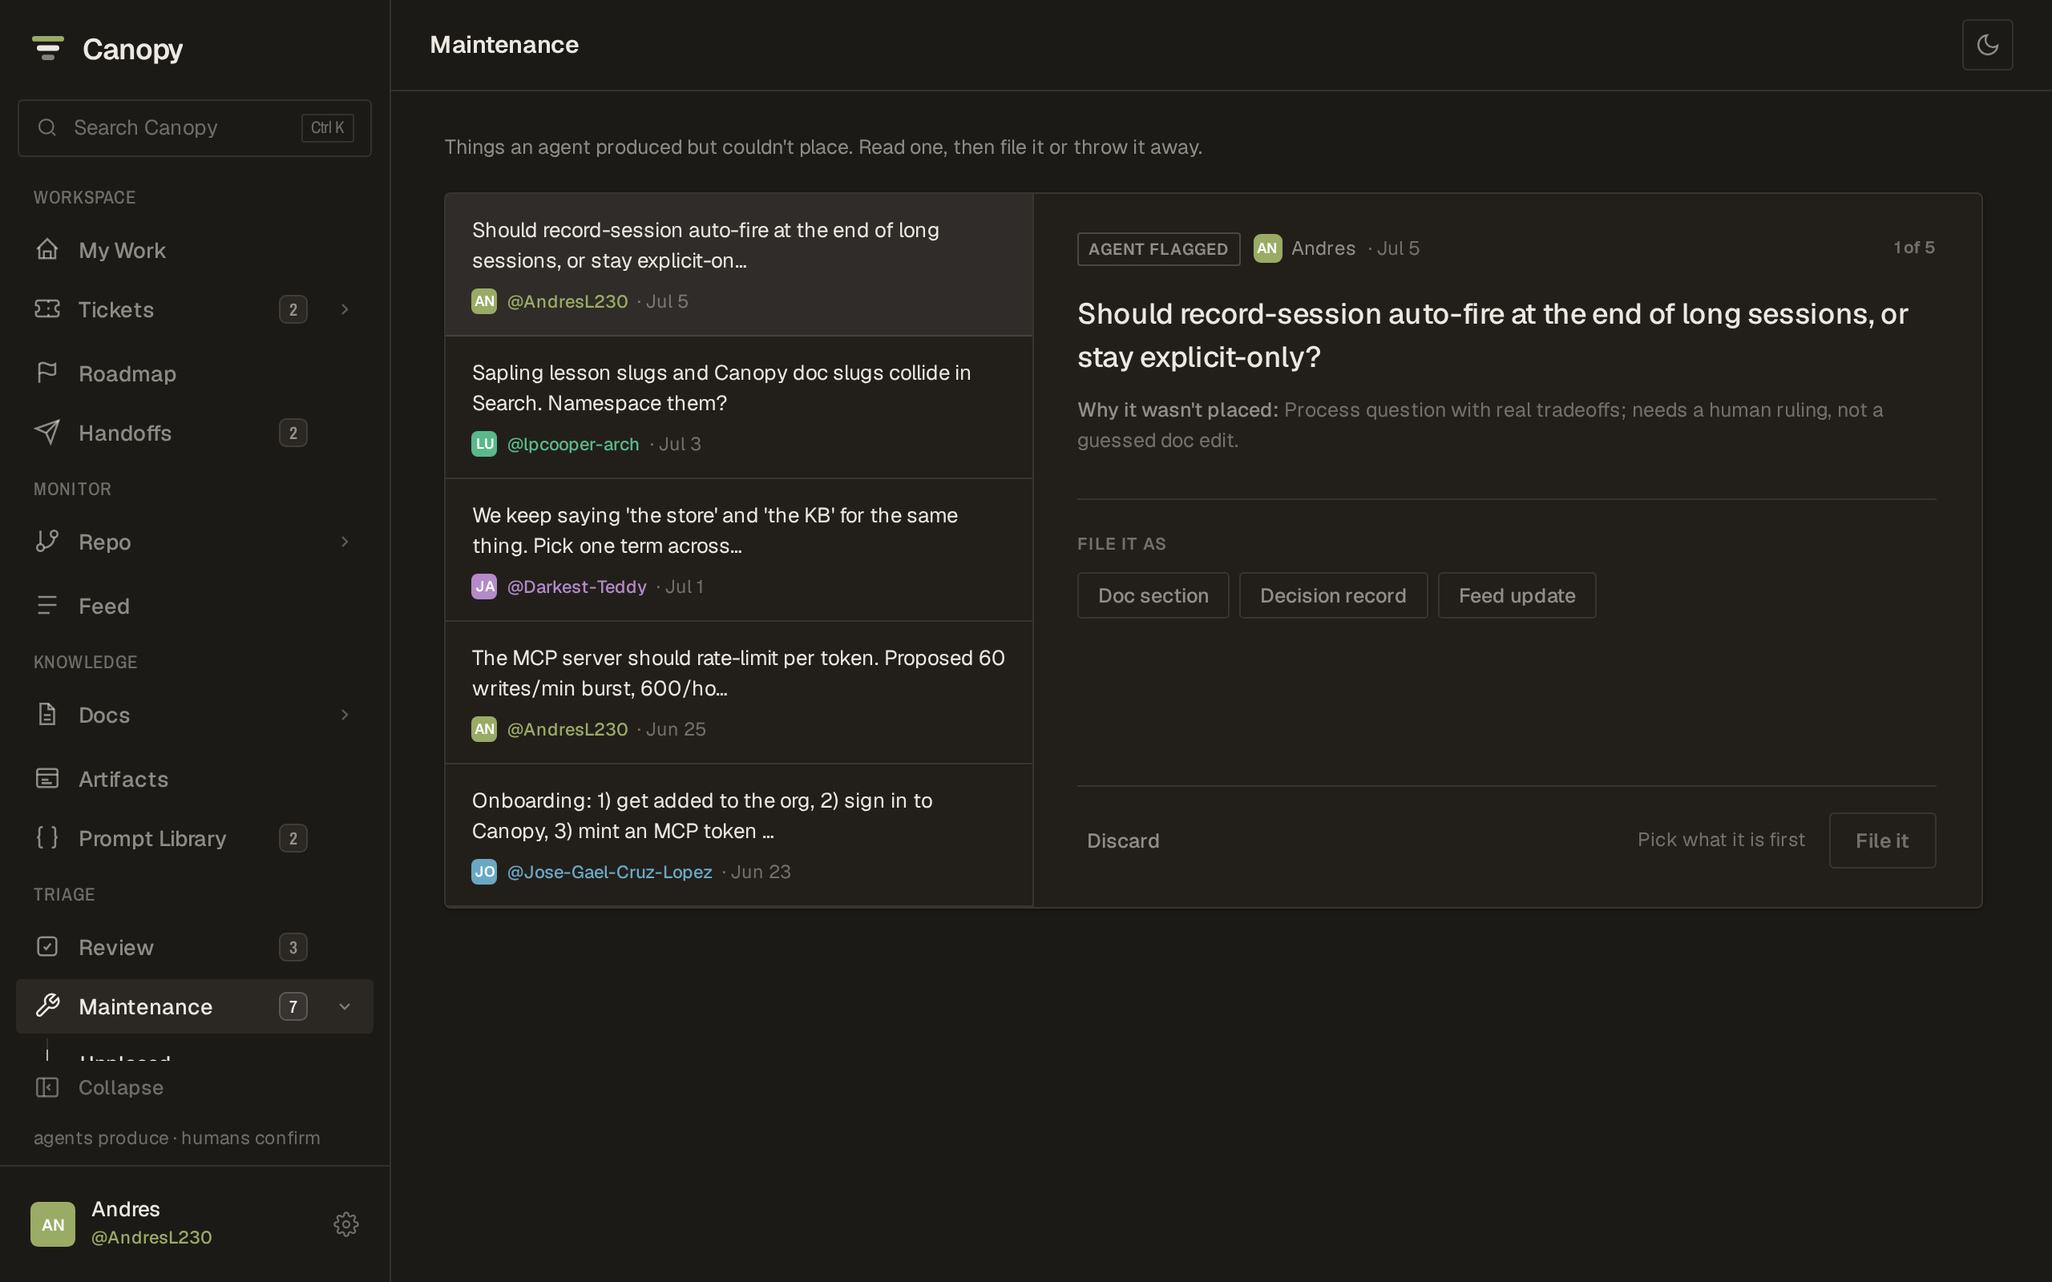
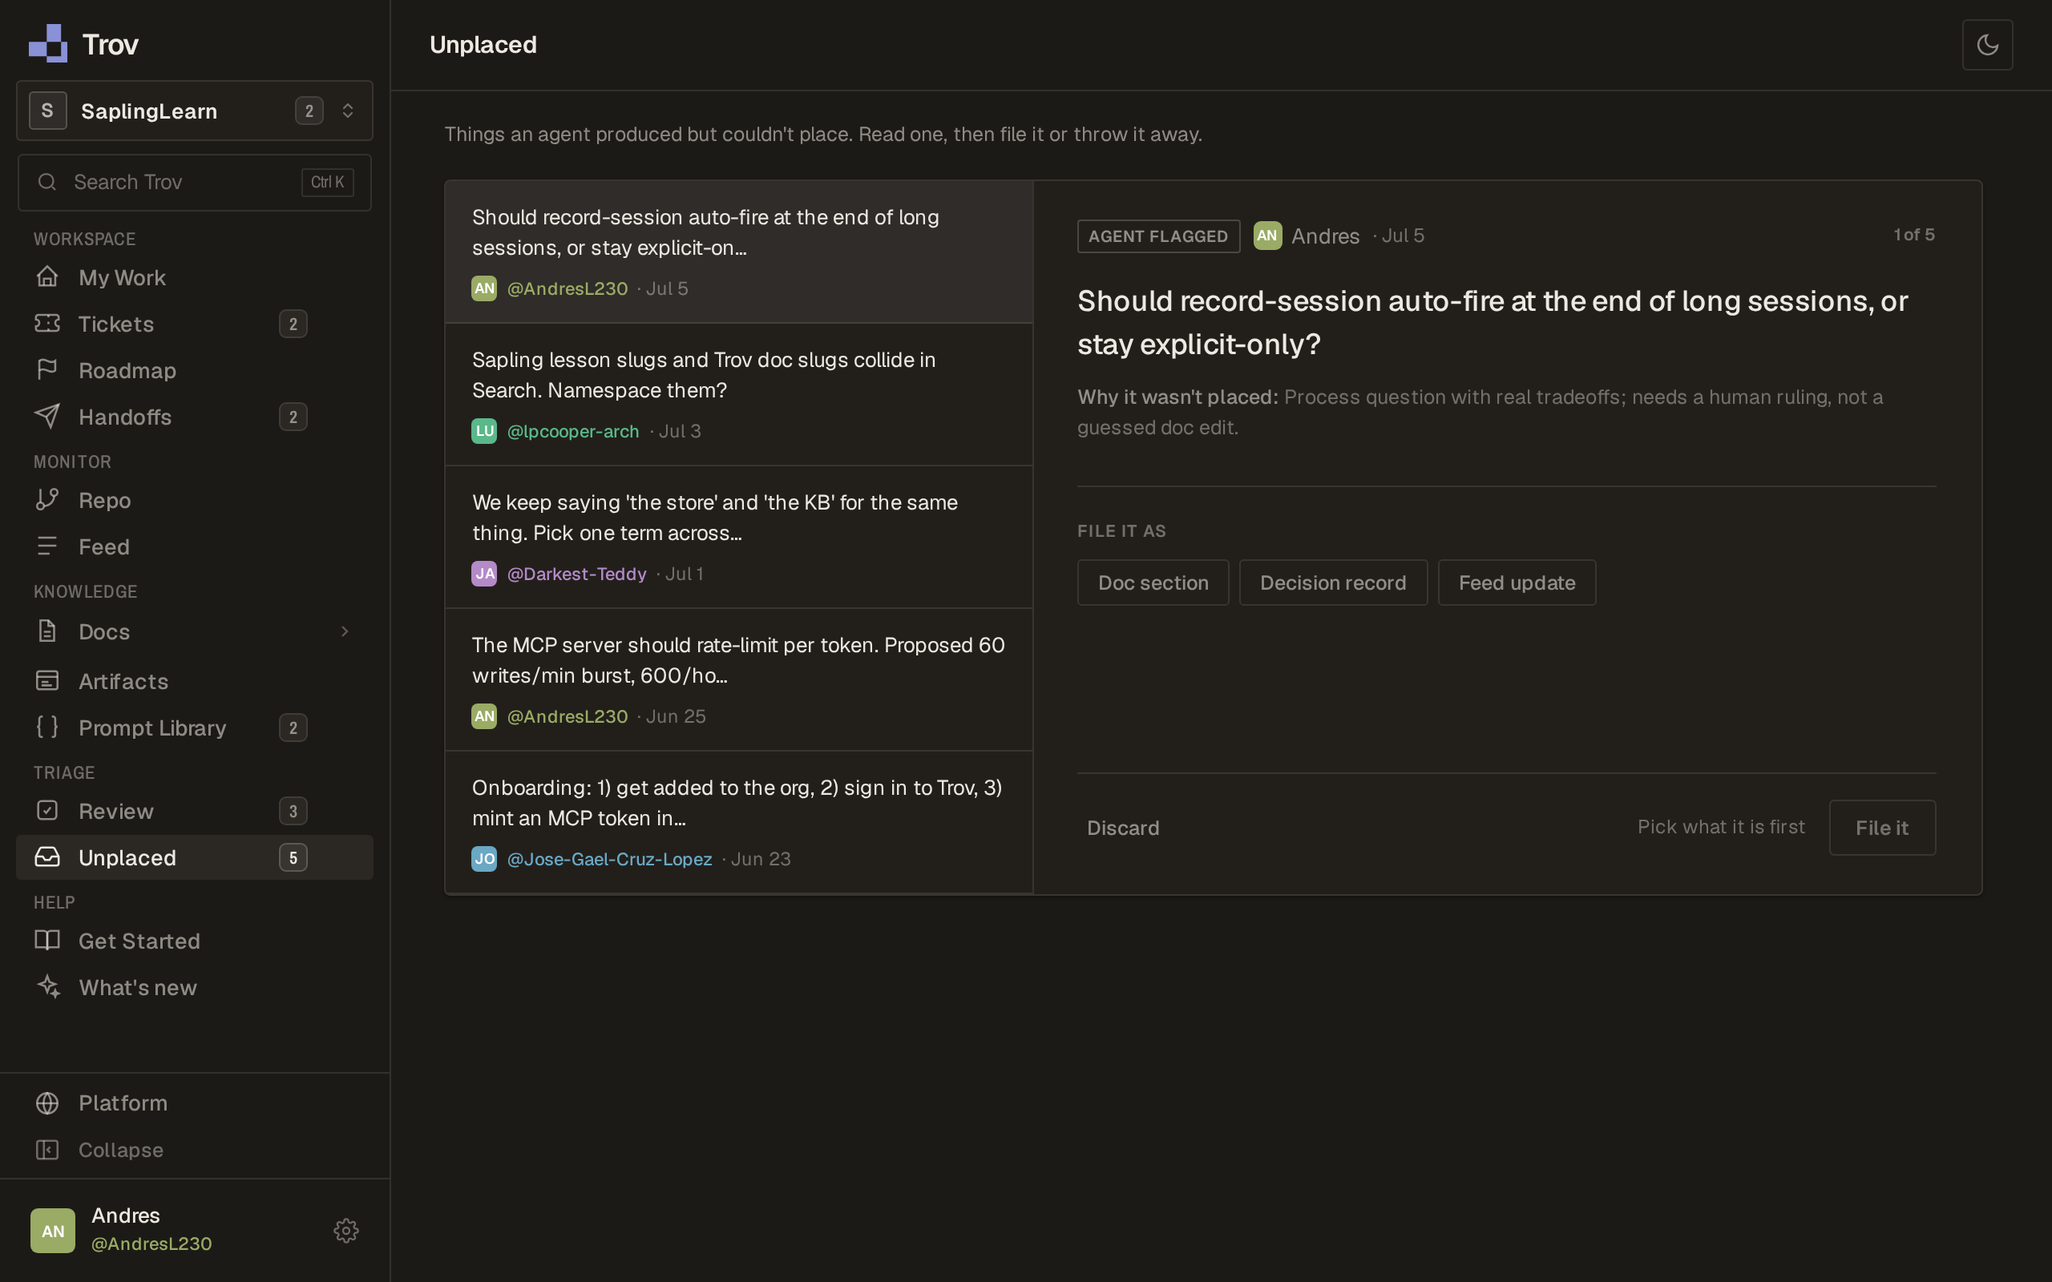
Second pass on the organization pages; the guide's Unplaced figure; docs
Field labels on Platform and the create dialog use the same eyebrow as Org settings;
the unmatched-login cards are tighter. An old spelling of the place already on screen
(#maintenance/identity while on Org settings › Members) is rewritten in the address
bar. The Get Started figure for the queue is recaptured as Unplaced, the release notes
(0.18) and organizations.md describe where an organization is administered and how its
tabs are laid out.

Claude-Session: https://claude.ai/code/session_01SHs5YNagMrboyApz5UNR5w

diff --git a/web/src/releases.ts b/web/src/releases.ts
@@ -81,7 +81,7 @@ export const RELEASES: Release[] = [
       "Org settings is the one place an organization is run from: Members is the people directory, Notifications holds the email digest settings, and Maintenance is gone (its queue is now Triage › Unplaced). In Members, invite people by GitHub login or email, make them an admin or a member, give them a title, or remove them. An email invitation is sent by Trov, names your organization, and the page shows whether it went out; you can send it again. Owners manage other owners.",
       "Org settings also holds what used to be set by whoever deploys Trov: the repositories an organization tracks, the environments its Repo dashboard reports on, and the credentials Trov uses for it. A credential is write-only: once saved, only its last four characters are ever shown.",
       "Connecting Claude Code is per organization: you pick the organization when you allow the connection, and Settings › MCP access shows which one each connected app reaches.",
-      "A new organization's admin gets a short checklist: connect a repository, add an environment, set the GitHub token, invite the team.",
+      "A new organization's admin gets a short checklist: connect a repository, add an environment, set the GitHub token, invite the team. Each Org settings tab starts with one line saying what is set and what needs attention, and a row opens for its details.",
     ],
     headsUp: [
       "The address of every page now starts with your organization, like /o/your-org/. Old links and links in emails still open, in your organization if you have one, or the last one you used.",
@@ -132,6 +132,7 @@ export const RELEASES: Release[] = [
         "Org settings › Members sends and re-sends the invitation email through the org routes, for an admin in any number of orgs, takes the invitee's name, and shows each pending invite's email outcome",
         "A ticket's and a handoff's `id` on every surface is its per-org number (spec §12 Q2): route params and bodies (`/tickets/:id`, `child_id`, `after_id`, `/handoffs/:id`), every MCP ticket / handoff tool, quick search (`#12`), My Work, a sprint's ticket list, an artifact's link to a ticket. The global row id no longer leaves the Worker. `MyWorkTicket.number` is gone (`id` is the number)",
         "`POST …/admin/poll` and `…/admin/poll-usage` results: a source the org has not set up reads \"Not connected — set it up in Org settings › Integrations\"; Sync GitHub's 503 for an org with no repository or token says so and offers Org settings",
+        "Org settings, Platform and the org picker share one hierarchy (`web/src/org-ui.ts`): a tab opens with a lead line (`tabLead` — what is there, what needs attention, the tab's one accent action), sections are the uppercase eyebrow (`orgHead`, `.cnpy-sechead`), a row shows a name, a status chip and one quiet action and opens to the rest (`openRow`, `orgRowToggle`, `OrgUi.openRows`), and destructive actions are text (`dangerLink`). Integrations' status chip is one word (the last four move to the row's metadata), its encryption key and history are rows at the foot; the setup checklist is one line; an environment's Delete is in its edit form; Platform's Add organization is the Organizations tab's lead action, not a header button; a Platform organization's page lists members and pending invites together, with Add an owner behind a button (`platOwnerToggle`)",
         "Org settings › Notifications: the sender is a NAME field over the fixed address, checked with the Worker's rule; a 429 `rate_limited` is one sentence with the local time wherever a limited route is called",
         "A sprint's `lead` must be a member of the org (`create_sprint`, the plan write): a non-member is a 400 and nothing is written",
         "A bare issue ref (`#214`) on a ticket link or sprint resource resolves against the org's primary repository only; with none connected it is a 400 that names Org settings › Repositories",

diff --git a/web/src/identity.ts b/web/src/identity.ts
@@ -80,10 +80,10 @@ export function discardedLogins(items: DiscardedLogin[], open: boolean): string 
 /** One unmatched login: the activity sample that identifies the person, beside the picker. */
 export function identityCard(g: IdentityGroup, people: Person[], pick: string | null, confirming: boolean): string {
   const sample = g.sample.map((ev) => `<div style="display:flex;align-items:baseline;gap:9px;min-width:0"><span style="font-family:var(--label);font-size:10px;font-weight:600;letter-spacing:.04em;color:var(--fg-40);border:1px solid var(--border);border-radius:5px;padding:1px 6px;flex:none">${esc(ev.kind)}</span><span style="font-size:12.5px;color:var(--fg-70);min-width:0;overflow:hidden;text-overflow:ellipsis;white-space:nowrap">${esc(ev.text)}</span><span style="font-size:11px;color:var(--fg-40);flex:none;white-space:nowrap">${esc(ev.when)}</span></div>`).join("");
-  return `<div style="display:flex;flex-wrap:wrap;gap:20px 36px;padding:20px 22px;border-bottom:1px solid var(--border);margin-bottom:-1px">
+  return `<div style="display:flex;flex-wrap:wrap;gap:14px 32px;padding:14px 16px 16px;border-bottom:1px solid var(--border);margin-bottom:-1px">
     <div style="flex:1 1 280px;min-width:0">
-      <div style="display:flex;align-items:baseline;gap:10px;flex-wrap:wrap"><div style="font-family:var(--label);font-size:15px;font-weight:600;color:var(--fg);white-space:nowrap">${esc(g.login)}</div><div style="font-size:11.5px;color:var(--fg-40);white-space:nowrap">${esc(g.meta)}</div></div>
-      <div style="display:flex;flex-direction:column;gap:7px;margin-top:12px">${sample}</div>
+      <div style="display:flex;align-items:baseline;gap:10px;flex-wrap:wrap"><div style="font-size:13.5px;font-weight:600;color:var(--fg);white-space:nowrap">${esc(g.login)}</div><div style="font-size:11.5px;color:var(--fg-40);white-space:nowrap">${esc(g.meta)}</div></div>
+      <div style="display:flex;flex-direction:column;gap:6px;margin-top:8px">${sample}</div>
     </div>
     <div style="flex:1 1 380px;min-width:0">${personPicker(g.id, people, pick, confirming)}</div>
   </div>`;

diff --git a/web/src/triage-map.ts b/web/src/triage-map.ts
@@ -119,7 +119,7 @@ export function decodeReviewId(id: string): ReviewRef | null {
   return null;
 }
 
-// ── Maintenance · assign vocabulary ──────────────────────────────────────────
+// ── Unplaced · assign vocabulary ──────────────────────────────────────────
 /** The real assign options: gate types × @shared/vocabulary targets.
  *  'needs-triage' is the queue itself, never an assignable section. */
 export const ASSIGN_OPTIONS: AssignOptions = {
@@ -133,7 +133,7 @@ export const ASSIGN_OPTIONS: AssignOptions = {
   tags: [...TAGS],
 };
 
-// ── Maintenance · Unplaced ───────────────────────────────────────────────────
+// ── Unplaced · the queue ─────────────────────────────────────────────────────
 function clip(text: string, max: number): string {
   return text.length > max ? `${text.slice(0, max)}…` : text;
 }
@@ -170,7 +170,7 @@ export function unplacedFromRow(r: NeedsTriageRow): UnplacedItem {
   };
 }
 
-// ── Maintenance · Identity ───────────────────────────────────────────────────
+// ── Org settings › Members · Unmatched logins ───────────────────────────────────────────────────
 /** Real sample kinds are only pr_merged / pr_closed / issue — commits are never
  *  captured events. The read returns samples, not a total, so the accent line
  *  says "recent activity" instead of fabricating a count. */

diff --git a/web/src/org-settings.ts b/web/src/org-settings.ts
@@ -351,7 +351,7 @@ export function envForm(d: EnvDraft, current: OrgEnvironmentDTO | null, metricsS
     <div style="${O_LABEL};margin-top:20px">Where it runs</div>
     <div class="cnpy-org-grid" style="margin-top:10px">${ENV_URLS.map(f).join("")}</div>
     ${warn}
-    <button type="button" data-act="orgEnvAdvanced" data-field="orgEnvAdvanced" aria-expanded="${open}" aria-controls="org-env-adv" class="cnpy-mutelink" style="display:inline-flex;align-items:center;gap:6px;margin-top:18px;padding:4px 0;font-size:12.5px;font-weight:500;color:var(--fg-55)"><svg width="11" height="11" viewBox="0 0 24 24" fill="none" stroke="currentColor" stroke-width="2.4" aria-hidden="true" style="transform:${open ? "rotate(90deg)" : "none"};transition:transform .15s ease"><path d="M9 6l6 6-6 6"></path></svg>Advanced: GitHub, Cloudflare and Railway names</button>
+    <button type="button" data-act="orgEnvAdvanced" data-field="orgEnvAdvanced" aria-expanded="${open}" aria-controls="org-env-adv" class="cnpy-mutelink" style="display:inline-flex;align-items:center;gap:6px;margin-top:18px;padding:4px 0;font-size:12.5px;font-weight:500;color:var(--fg-55);text-align:left"><svg width="11" height="11" viewBox="0 0 24 24" fill="none" stroke="currentColor" stroke-width="2.4" aria-hidden="true" style="transform:${open ? "rotate(90deg)" : "none"};transition:transform .15s ease"><path d="M9 6l6 6-6 6"></path></svg>Advanced: GitHub, Cloudflare and Railway names</button>
     <div id="org-env-adv"${open ? "" : " hidden"}>
       <div style="${O_HELP};margin:4px 0 12px">Only needed for the dashboard cards that read these services. Leave any of them empty to skip that card.</div>
       <div class="cnpy-org-grid">${ENV_ADVANCED.map(f).join("")}</div>

diff --git a/web/src/integrations.ts b/web/src/integrations.ts
@@ -324,7 +324,7 @@ export function integrationsTab(org: MyOrg, ui: OrgUi): string {
       ? `<li class="cnpy-org-row" style="align-items:center"><div style="flex:1 1 260px;min-width:0;font-size:12.5px;color:var(--fg-55)">Each repository gets its own webhook secret. None is connected yet.</div><div class="cnpy-org-actions">${goLink("Connect a repository", "orgTab", "repos")}</div></li>` : "";
     return `<section aria-labelledby="org-int-${attr(g.key)}" data-org-group="${attr(g.key)}">
       ${orgHead(g.title, g.key === "orphans" ? "can only be deleted" : `${done} of ${g.rows.length} set`, null, `org-int-${g.key}`)}
-      <ul${surface(LIST)} title="${attr(g.hint)}">${g.rows.map((i) => integrationRow(i, { secretsAvailable: d.secrets_available, test: ui.tests[integrationKey(i)], open: ui.openRows.includes(integrationKey(i)) })).join("")}${extra}</ul>
+      <ul${surface(LIST)}>${g.rows.map((i) => integrationRow(i, { secretsAvailable: d.secrets_available, test: ui.tests[integrationKey(i)], open: ui.openRows.includes(integrationKey(i)) })).join("")}${extra}</ul>
     </section>`;
   }).join("");
   const envHint = noEnv ? `<div style="margin-top:30px">${orgEmpty("No environment tokens yet", "Each environment gets a Railway project token and an app metrics token. Add an environment first.", quietBtn("Open Environments", "orgTab", { arg: "environments" }))}</div>` : "";

diff --git a/web/src/platform.ts b/web/src/platform.ts
@@ -187,7 +187,8 @@ export const lastSuperadminSentence = (handle: string): string =>
 const LABEL = "font-family:var(--label);font-size:10.5px;font-weight:600;letter-spacing:.08em;text-transform:uppercase;color:var(--fg-40);white-space:nowrap";
 const QUIET = "font-size:11.5px;color:var(--fg-40)";
 const FIELD = "display:block;width:100%;box-sizing:border-box;height:38px;padding:0 12px;border:1px solid var(--border-strong);border-radius:9px;background:transparent;color:var(--fg);font-size:13.5px;font-family:var(--sans);outline:none";
-const FIELD_LABEL = "display:block;font-size:12.5px;font-weight:500;color:var(--fg-70);margin-bottom:6px";
+// A field's label: the same uppercase eyebrow as Org settings' fields (org-ui.ts `O_LABEL`).
+const FIELD_LABEL = "display:block;font-family:var(--label);font-size:10.5px;font-weight:600;letter-spacing:.08em;text-transform:uppercase;color:var(--fg-40);margin-bottom:7px";
 const BTN = "height:38px;padding:0 16px;border-radius:8px;font-size:12.5px;font-weight:600;white-space:nowrap";
 const OUTLINE = `${BTN};border:1px solid var(--border-strong);font-weight:500;color:var(--fg-70)`;
 const ROW = "display:flex;align-items:center;gap:12px;padding:11px 20px;border-bottom:1px solid var(--border);margin-bottom:-1px";

diff --git a/web/src/org-picker.ts b/web/src/org-picker.ts
@@ -194,7 +194,7 @@ export function orgMenu(p: OrgMenuProps): string {
 
 // ── the create dialog ────────────────────────────────────────────────────────
 const FIELD = "display:block;width:100%;box-sizing:border-box;height:38px;padding:0 12px;border:1px solid var(--border-strong);border-radius:9px;background:transparent;color:var(--fg);font-size:13.5px;font-family:var(--sans);outline:none";
-const FIELD_LABEL = "display:block;font-size:12.5px;font-weight:500;color:var(--fg-70);margin-bottom:6px";
+const FIELD_LABEL = "display:block;font-family:var(--label);font-size:10.5px;font-weight:600;letter-spacing:.08em;text-transform:uppercase;color:var(--fg-40);margin-bottom:7px";
 const BTN = "height:38px;padding:0 16px;border-radius:8px;font-size:12.5px;font-weight:600;white-space:nowrap";
 
 /** "Create an organization": a name and its address. The person who creates it is its owner. */

diff --git a/web/src/main.ts b/web/src/main.ts
@@ -362,7 +362,13 @@ window.addEventListener("hashchange", () => {
   if (state.view !== "app") return;
   const r = parseHash(location.hash);
   const cur = currentRoute();
-  if (sameRoute(r, cur)) return;
+  if (sameRoute(r, cur)) {
+    // Already there — but an old spelling of it (`#maintenance/people` while on Org settings ›
+    // Members) should not stay in the address bar.
+    const want = hashForRoute(cur);
+    if (location.hash !== want) history.replaceState(null, "", want);
+    return;
+  }
   applyRoute(r);
   // Back / Forward between two tabs of Org settings: the page is already loaded, so the tab's
   // body swaps in place — exactly what clicking the tab does. (Every other screen's loader is

diff --git a/test/tabs.instant.test.ts b/test/tabs.instant.test.ts
@@ -51,6 +51,9 @@ describe("pageKey — the page a route is on, without its tab", () => {
 });
 
 describe("main.ts — the entrance and Back / Forward", () => {
+  it("an old spelling of the place already on screen is rewritten in the address bar, with no reload", () => {
+    expect(mainSrc).toMatch(/if \(sameRoute\(r, cur\)\) \{[\s\S]{0,260}const want = hashForRoute\(cur\);\s*if \(location\.hash !== want\) history\.replaceState\(null, "", want\);\s*return;/);
+  });
   it("keys the screen entrance on pageKey, so a tab switch never replays it", () => {
     expect(mainSrc).toMatch(/const key = `\$\{pageKey\(currentRoute\(\)\)\}\|/);
     // No hand-written list of tabs to forget one from.

diff --git a/docs/architecture/organizations.md b/docs/architecture/organizations.md
@@ -106,6 +106,31 @@ the one organization that token was made for, and may only write to tickets assi
 Tickets and handoffs are numbered **per organization**: a new organization's first ticket is `#1`. That
 number is the id everywhere — the address bar, a link, an agent's tool call [`src/tools/tickets.ts`].
 
+### Where an organization is administered
+
+One place: **Org settings**, opened from the switcher at the top of the sidebar (`#org[/<tab>]`,
+`web/src/org-settings.ts`). There is no separate Maintenance area any more.
+
+| Tab | What it holds | Who sees it |
+|---|---|---|
+| Integrations | the organization's credentials; its encryption key and the history of changes | admin, owner |
+| Repositories | connected repositories, one primary; each one's webhook URL | everyone (read), admin+ (write) |
+| Environments | the environments the Repo dashboard reports on, in drift order | everyone (read), admin+ (write) |
+| Members | the people directory; for admins also invitations, roles and titles, removal, and **Unmatched logins** — GitHub logins in captured activity to map to a person or discard [`web/src/identity.ts`] | everyone (read), admin+ (write) |
+| Notifications | the e-mail digests: which exist and their default cadence, send hour, timezone and sender name, preview, test send, the outbox [`web/src/notifications.ts`] | admin, owner |
+| General | the name; the slug, read-only | everyone (read), admin+ (rename) |
+
+A person's own digest preferences stay in their Settings. The daily queue of things an agent could not
+place is not administration: it is **Triage › Unplaced** in the sidebar (`#unplaced`). Old links —
+`#maintenance`, `#maintenance/identity`, `#maintenance/people` — still open the right place
+[`web/src/hash.ts`]. Logins waiting to be matched are counted, for admins only, on the switcher, on its
+Org settings row and on the Members tab.
+
+Every tab is laid out the same way [`web/src/org-ui.ts`]: one lead sentence saying what is there and
+what needs attention, with the tab's one primary action beside it; sections under an uppercase eyebrow;
+rows that show a name, a status and one action, and open to the rest. Platform's tabs follow the same
+rules.
+
 ## 5. Suspension
 
 Platform › the organization › **Suspend** [`POST /api/platform/orgs/:slug/suspend`]. From that moment, for
